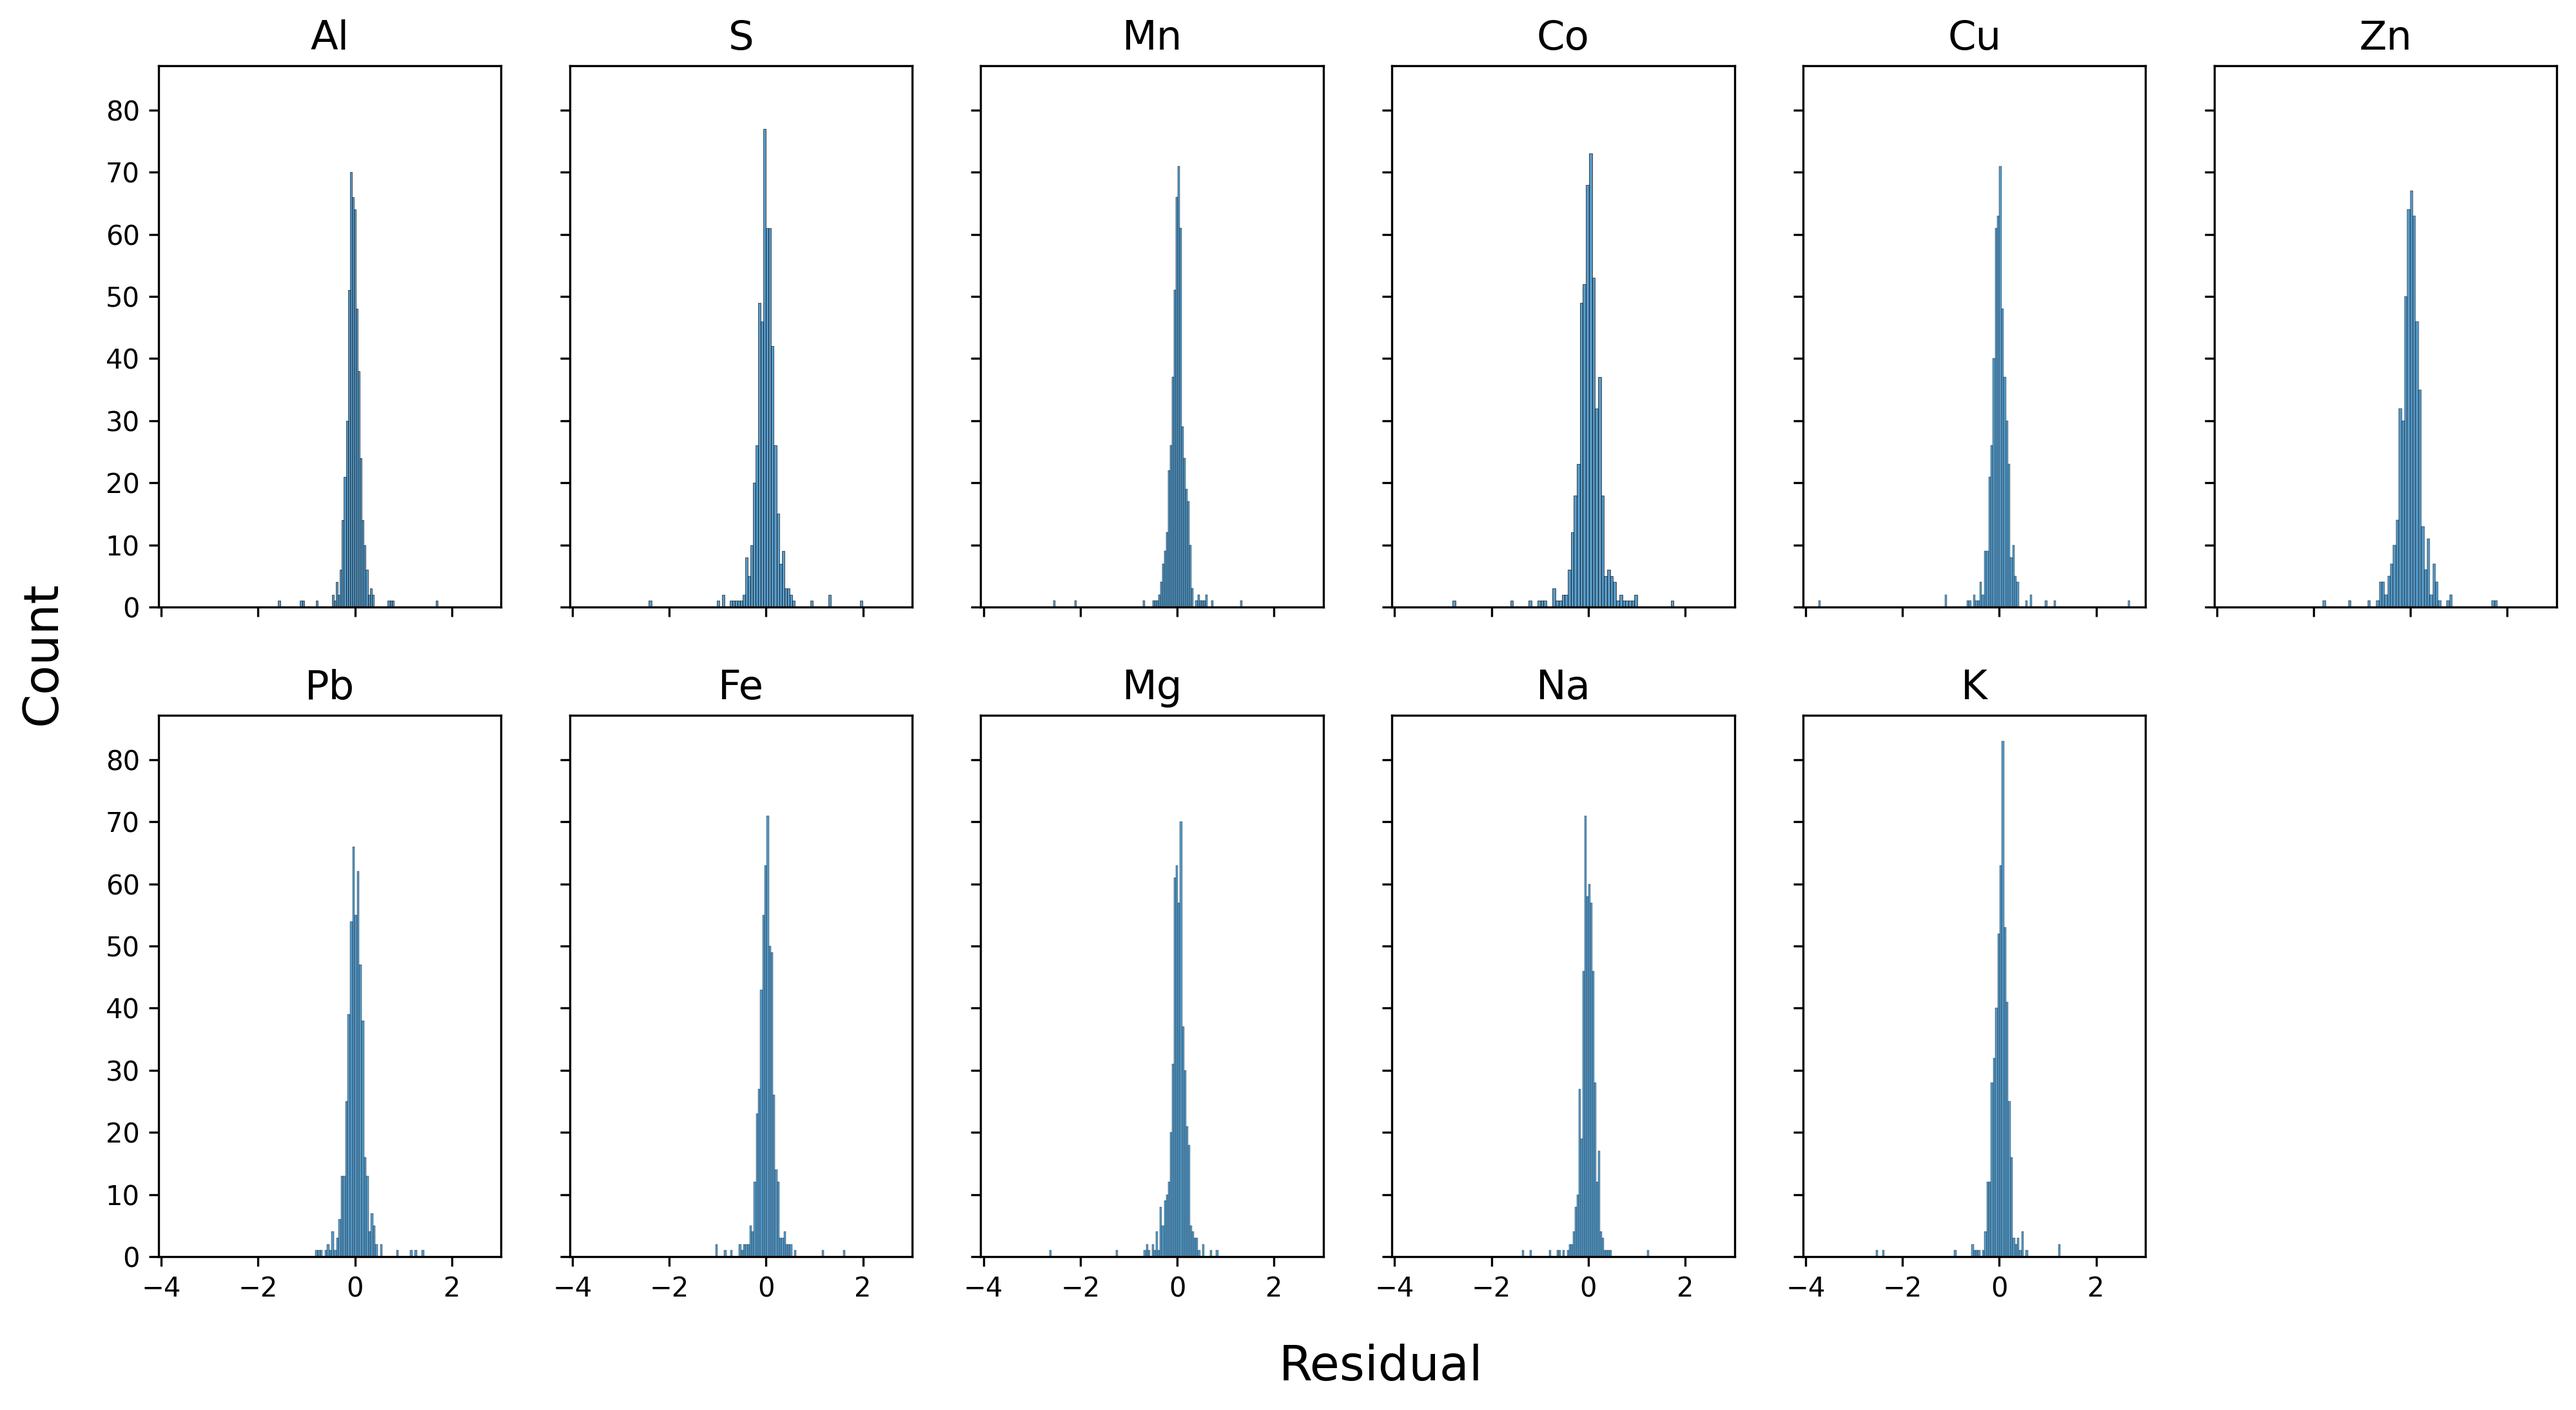
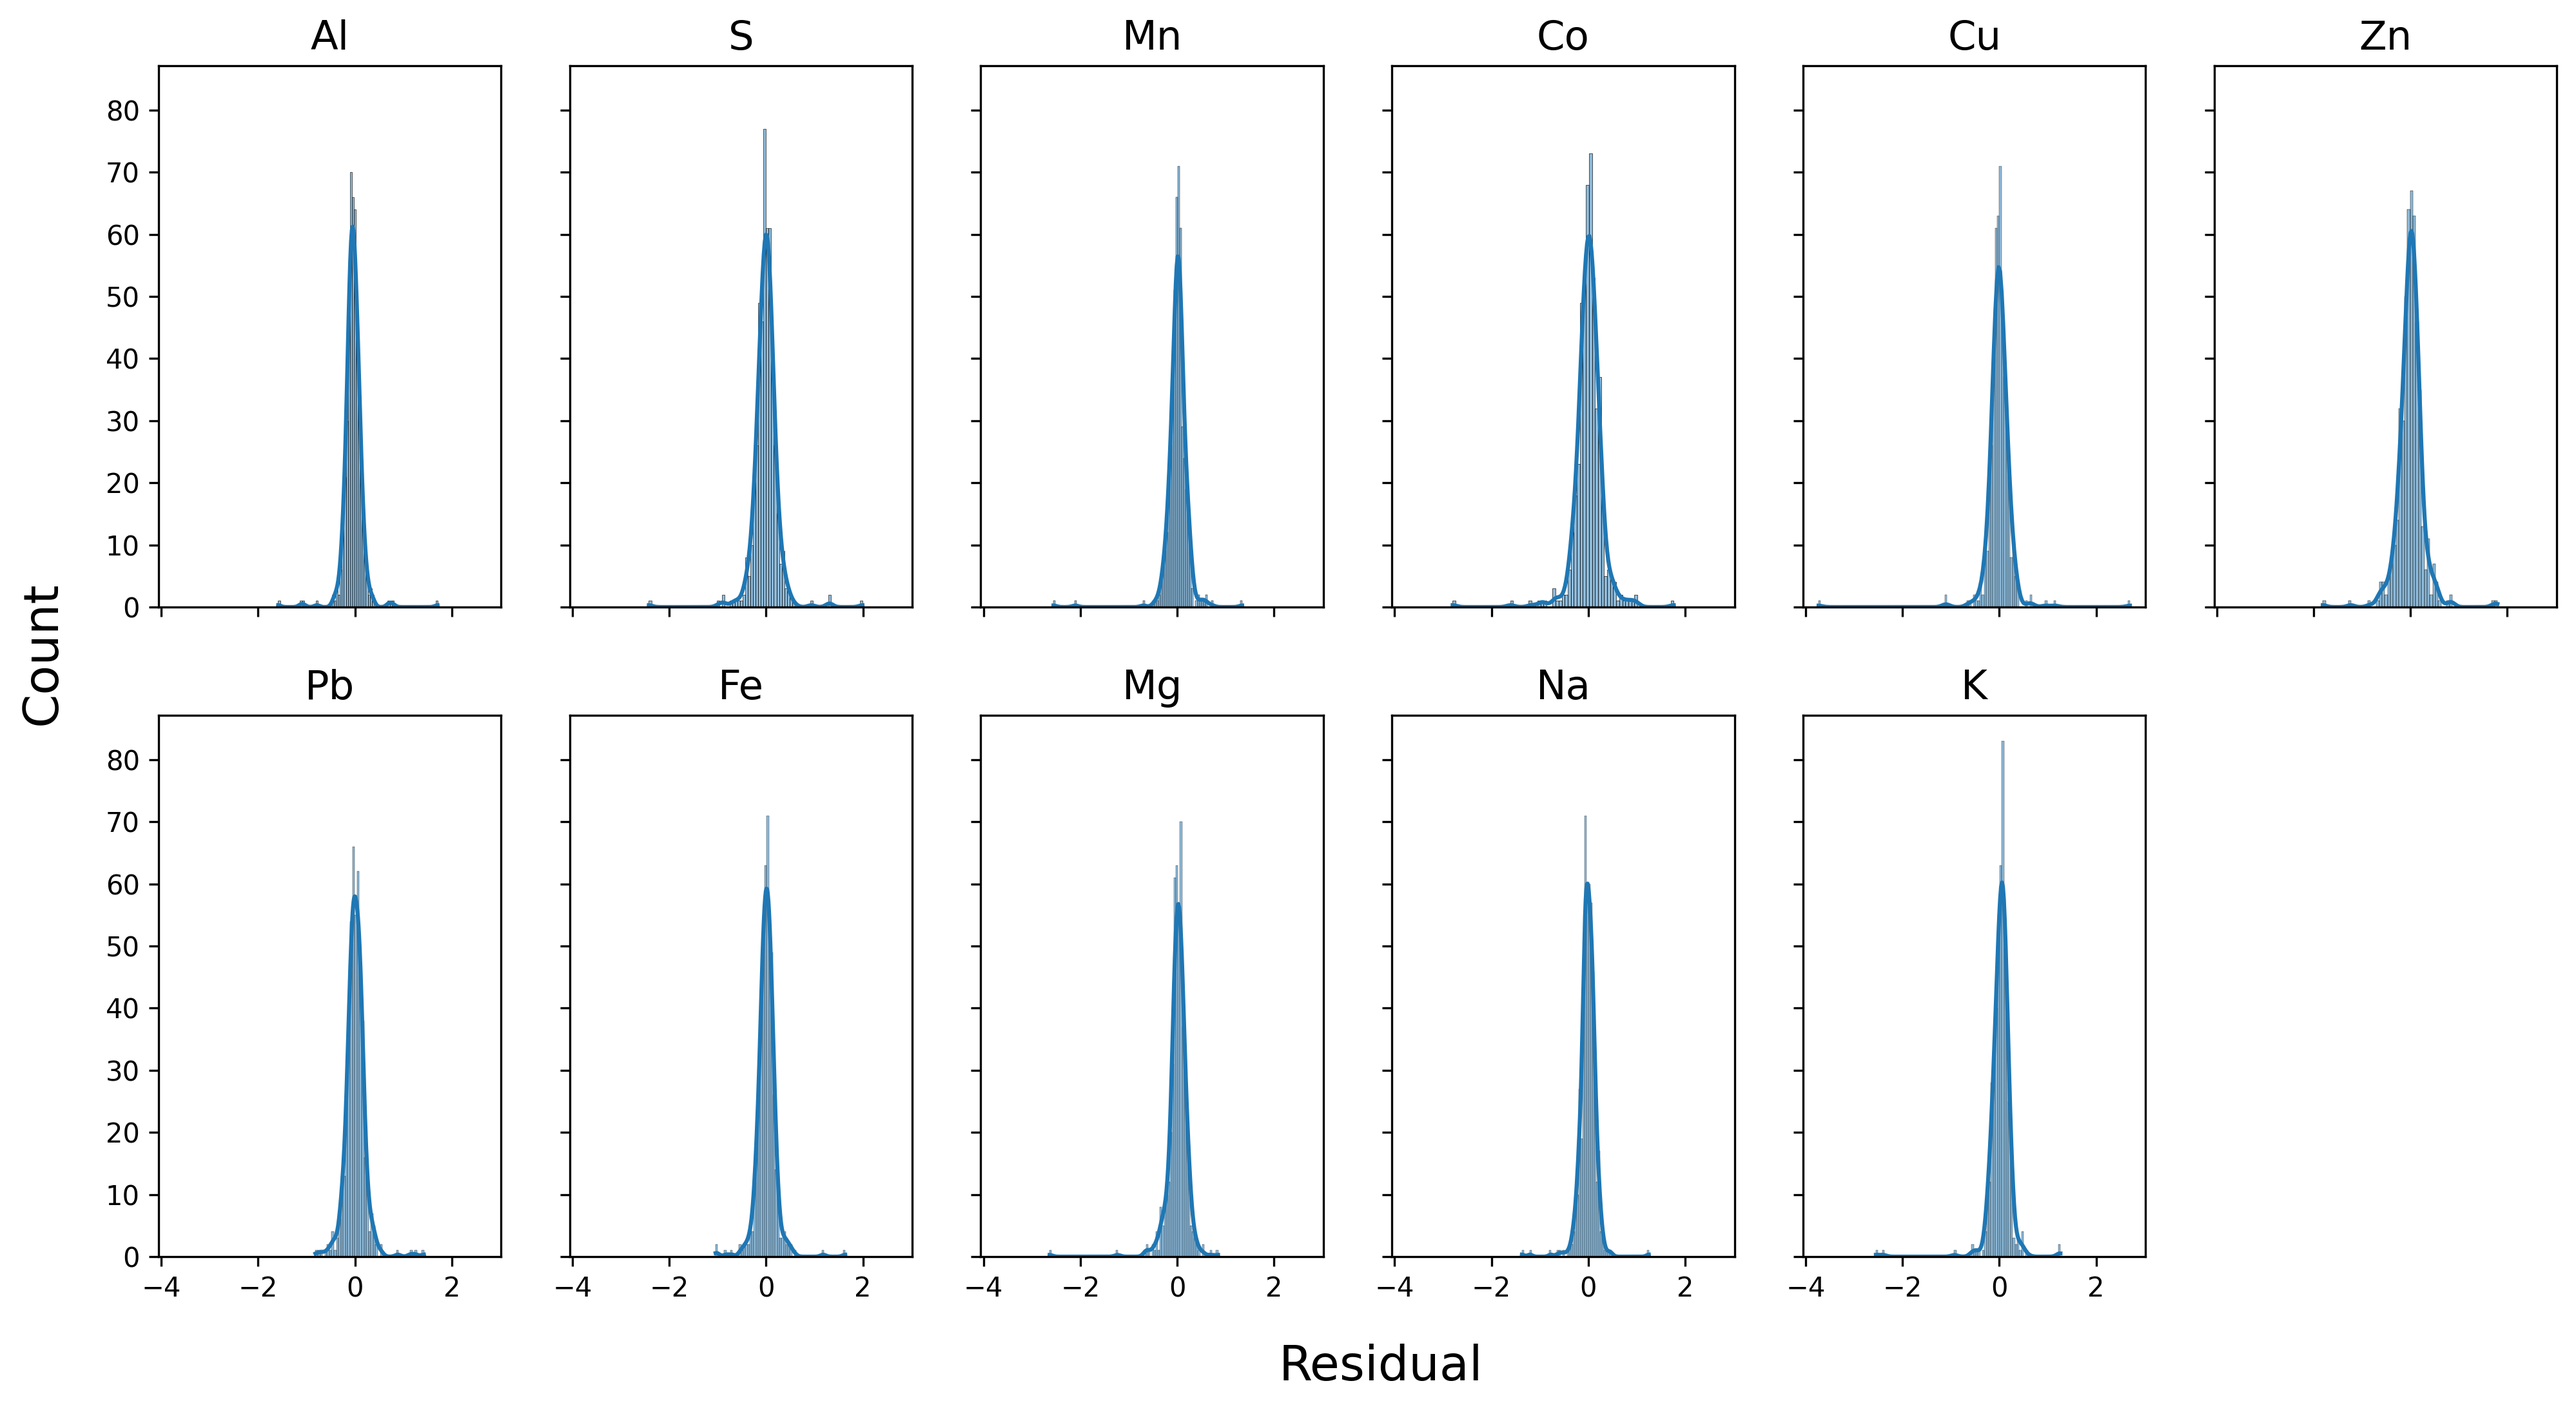
Added new figures (validation on test set: qq plot and PCA

diff --git a/src/train_and_evaluate.py b/src/train_and_evaluate.py
@@ -14,6 +14,8 @@ from seaborn import heatmap
 import json
 from matplotlib.pyplot import cm
 from matplotlib.lines import Line2D
+from scipy.stats import probplot
+from sklearn.decomposition import PCA
 
 import torch.optim as optim
 import optuna
@@ -199,7 +201,7 @@ def build_model(trial, input_size=INPUT_SIZE):
 
 # VISUALISATIONS
 
-# BASIC
+# BASIC DIAGNOSTIC PLOTS
 
 def visualise_prediction_against_true(outputs, labels, dimension, xlabel='True value', ylabel='Predicted value', title=''):
 
@@ -268,9 +270,9 @@ def plot_pred_vs_gt(outputs, labels, elements_to_keep, xlabel='Ground truth', yl
 
         title = elements_to_keep[i]
 
-        text = f"R$^2$={metrics['r2'][i]:.2f} \nMAE={metrics['mae'][i]:.2f}"
+        text = f"R$^2$={metrics['r2'][i]:.2f} \nMAE={metrics['mae'][i]:.2f} \nRMSE={metrics['rmse'][i]:.2f}"
 
-        ax.text(min_val, max_val-0.07*(max_val-min_val), text)
+        ax.text(min_val, max_val-0.12*(max_val-min_val), text)
 
         ax.set_title(title, size=15)
 
@@ -341,15 +343,10 @@ def plot_error_distributions(outputs, labels, elements_to_keep, xlabel='Residual
 
 
         residuals = y_pred-y_true
-        sns.histplot(residuals, kde=False, ax=ax)
+        sns.histplot(residuals, kde=True, ax=ax)
         ax.set(ylabel='')
 
         title = elements_to_keep[i]
-
-        # y_max = (y_pred-y_true).max()
-        # y_min = (y_pred-y_true).min()
-        # text = 'Mean residual: \n' + str(np.round(mean_res, 3))
-        # ax.text(min_val, y_max_max-0.4, text)
 
         ax.set_title(title, size=15)
 
@@ -361,6 +358,39 @@ def plot_error_distributions(outputs, labels, elements_to_keep, xlabel='Residual
     #plt.tight_layout()
     if path_to_save:
         plt.savefig(path_to_save+'error_distributions.png', dpi=300, bbox_inches="tight")
+    plt.show()
+    plt.close(fig)
+
+def plot_qq(outputs, labels, elements_to_keep, xlabel='Theoretical quantiles', ylabel='Prediction quantiles', path_to_save=None):
+
+    n_dims = outputs.shape[1]
+    fig, axes = plt.subplots(2, n_dims//2 + 1, figsize=(16, 8), sharey=True, sharex=True)
+    axes = axes.flatten()
+
+    for i in range(n_dims):
+        ax = axes[i]
+        y_true = labels[:, i]
+        y_pred = outputs[:, i]
+
+        norm_residuals = ((y_pred-y_true)-np.mean(y_pred-y_true))/np.std(y_pred-y_true)
+
+        ret1, ret2 = probplot(norm_residuals, dist="norm")
+        osm, osr = ret1
+        ax.scatter(osm, osr, alpha=0.5)
+        ax.set(ylabel='')
+
+        title = elements_to_keep[i]
+
+        ax.set_title(title, size=15)
+
+    axes[-1].set_axis_off()
+
+    fig.text(0.52, 0.03, xlabel, ha='center', size=18)
+    fig.text(0.08, 0.5, ylabel, va='center', rotation='vertical', size=18)
+
+    #plt.tight_layout()
+    if path_to_save:
+        plt.savefig(path_to_save+'qq_plot.png', dpi=300, bbox_inches="tight")
     plt.show()
     plt.close(fig)
 
@@ -379,11 +409,22 @@ def plot_error_boxplot(outputs, labels, elements_to_keep, xlabel='', ylabel='Res
     plt.show()
     plt.close(fig)
 
-def plot_correlation_heatmaps(outputs, labels, elements_to_keep, xlabel='', ylabel='Residual', path_to_save=None):
+def plot_error_violinplot(outputs, labels, elements_to_keep, xlabel='', ylabel='Residual', path_to_save=None):
 
-    # sns.heatmap(np.abs(np.corrcoef(labels, rowvar=False) - np.corrcoef(outputs, rowvar=False)))
-    # plt.show()
-    # plt.close()
+    residuals_all = outputs - labels
+
+    fig = plt.figure(figsize=(10, 5))
+    ax = sns.violinplot(data=residuals_all)
+    fig.text(0.52, 0.03, xlabel, ha='center', size=18)
+    fig.text(0.07, 0.5, ylabel, va='center', rotation='vertical', size=18)
+    ax.set_xticklabels(elements_to_keep, size=15)
+
+    if path_to_save:
+        plt.savefig(path_to_save+'error_violinplot.png', dpi=300, bbox_inches="tight")
+    plt.show()
+    plt.close(fig)
+
+def plot_correlation_heatmaps(outputs, labels, elements_to_keep, xlabel='', ylabel='Residual', path_to_save=None):
 
     fig = plt.figure(figsize=(12, 5))
 
@@ -408,7 +449,61 @@ def plot_correlation_heatmaps(outputs, labels, elements_to_keep, xlabel='', ylab
     plt.show()
     plt.close(fig)
 
-# LESS BASIC
+
+def plot_l2_error(outputs, labels, path_to_save=None):
+
+    l2_error = np.linalg.norm(outputs - labels, axis=1)
+
+    true_norm = np.linalg.norm(labels, axis=1)
+
+    fig = plt.figure(figsize=(8,5))
+    plt.scatter(true_norm, l2_error, alpha=0.5)
+    plt.xlabel("Sum of ground truth magnitudes for all elements", size=18)
+    plt.ylabel("L2 error of prediction", size=18)
+
+    if path_to_save:
+        plt.savefig(path_to_save+'global_error_vs_magnitude.png', dpi=300, bbox_inches="tight")
+    plt.show()
+    plt.close(fig)
+
+def plot_pca_projection(outputs, labels, path_to_save=None, max_arrows=200):
+
+    # Fit PCA on ground truth only (important for fair comparison)
+    pca = PCA(n_components=2)
+    pca.fit(labels)
+
+    labels_2d = pca.transform(labels)
+    outputs_2d = pca.transform(outputs)
+
+    fig = plt.figure(figsize=(8, 6))
+
+    plt.scatter(labels_2d[:, 0], labels_2d[:, 1], alpha=0.5, label="Ground Truth")
+    plt.scatter(outputs_2d[:, 0], outputs_2d[:, 1], alpha=0.5, label="Prediction")
+
+    from sklearn.metrics import pairwise_distances
+
+    d_true = pairwise_distances(labels_2d)
+    d_pred = pairwise_distances(outputs_2d)
+
+    # Normalize (avoid scale issues)
+    d_true /= np.mean(d_true)
+    d_pred /= np.mean(d_pred)
+
+    alignment_score = np.mean(np.abs(d_true - d_pred))
+
+    print(f"PCA alignment score (lower is better): {alignment_score:.4f}")
+
+    plt.xlabel("PC1")
+    plt.ylabel("PC2")
+    plt.title("PCA Projection (2D)")
+    plt.legend()
+
+    if path_to_save:
+        plt.savefig(path_to_save+'pca_projection_test_set.png', dpi=300, bbox_inches="tight")
+    plt.show()
+    plt.close(fig)
+
+# CLASSIFICATION-BASED STATISTICS AND VISUALISATIONS
 
 def create_means_df(elements_to_keep, y_train, train_order, y_val, val_order):
 

diff --git a/analysis/4_neural_network_validation.py b/analysis/4_neural_network_validation.py
@@ -153,16 +153,23 @@ print(torch.mean(difference, axis=0))
 
 # Visualise prediction against true:
 
-plot_pred_vs_gt(to_numpy(outputs), to_numpy(labels), ELEMENTS_TO_KEEP, xlabel='Logarithmed ground truth', ylabel='Logarithmed prediction', path_to_save=FIGURES_PATH)
+# plot_pred_vs_gt(to_numpy(outputs), to_numpy(labels), ELEMENTS_TO_KEEP, xlabel='Logarithmed ground truth', ylabel='Logarithmed prediction', path_to_save=FIGURES_PATH)
 
-plot_residuals(to_numpy(outputs), to_numpy(labels), ELEMENTS_TO_KEEP, xlabel='True value (logarithmed)', path_to_save=FIGURES_PATH)
+# plot_residuals(to_numpy(outputs), to_numpy(labels), ELEMENTS_TO_KEEP, xlabel='True value (logarithmed)', path_to_save=FIGURES_PATH)
 
-plot_error_distributions(to_numpy(outputs), to_numpy(labels), ELEMENTS_TO_KEEP, xlabel='Residual', ylabel='Count', path_to_save=FIGURES_PATH)
+# plot_error_distributions(to_numpy(outputs), to_numpy(labels), ELEMENTS_TO_KEEP, xlabel='Residual', ylabel='Count', path_to_save=FIGURES_PATH)
 
-plot_error_boxplot(to_numpy(outputs), to_numpy(labels), ELEMENTS_TO_KEEP, xlabel='', ylabel='Residual', path_to_save=FIGURES_PATH)
+# plot_qq(to_numpy(outputs), to_numpy(labels), ELEMENTS_TO_KEEP, xlabel='Theoretical quantiles', ylabel='Prediction quantiles', path_to_save=FIGURES_PATH)
 
-plot_correlation_heatmaps(to_numpy(outputs), to_numpy(labels), ELEMENTS_TO_KEEP, xlabel='', ylabel='Residual', path_to_save=FIGURES_PATH)
+# plot_error_boxplot(to_numpy(outputs), to_numpy(labels), ELEMENTS_TO_KEEP, xlabel='', ylabel='Residual', path_to_save=FIGURES_PATH)
 
+# plot_error_violinplot(to_numpy(outputs), to_numpy(labels), ELEMENTS_TO_KEEP, xlabel='', ylabel='Residual', path_to_save=FIGURES_PATH)
+
+# plot_correlation_heatmaps(to_numpy(outputs), to_numpy(labels), ELEMENTS_TO_KEEP, xlabel='', ylabel='Residual', path_to_save=FIGURES_PATH)
+
+# plot_l2_error(to_numpy(outputs), to_numpy(labels), path_to_save=FIGURES_PATH)
+
+plot_pca_projection(to_numpy(outputs), to_numpy(labels), path_to_save=FIGURES_PATH)
 
 
 
